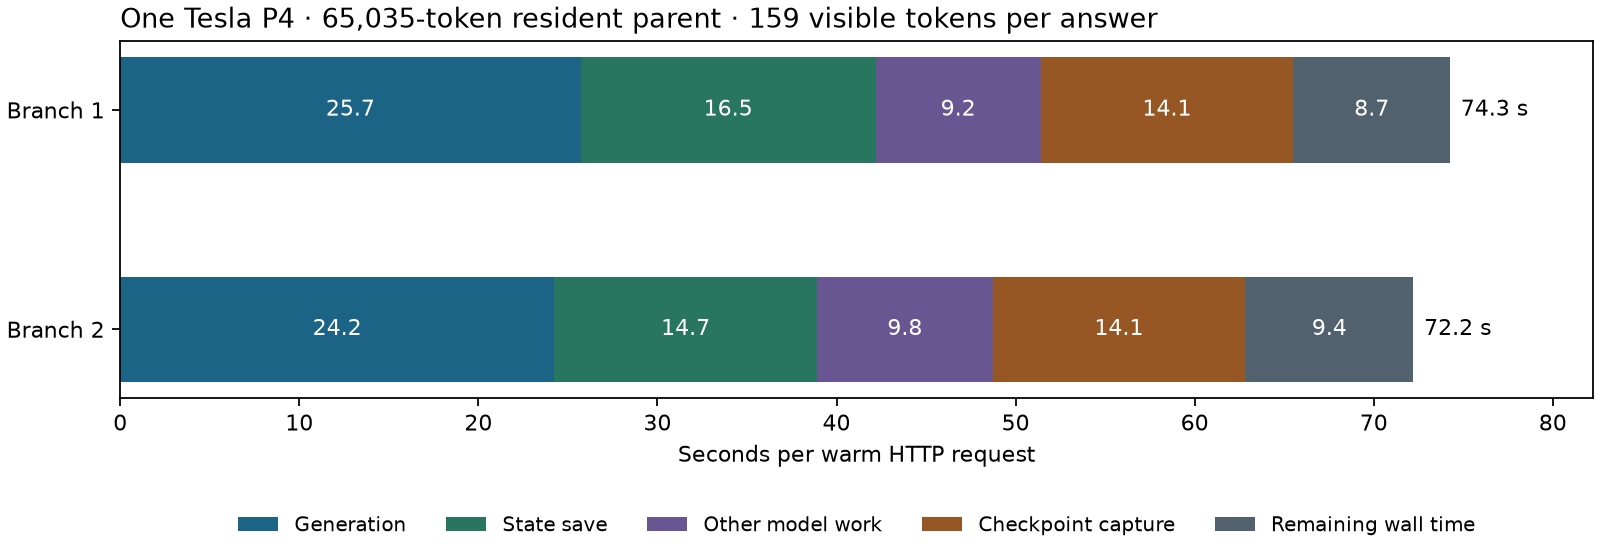
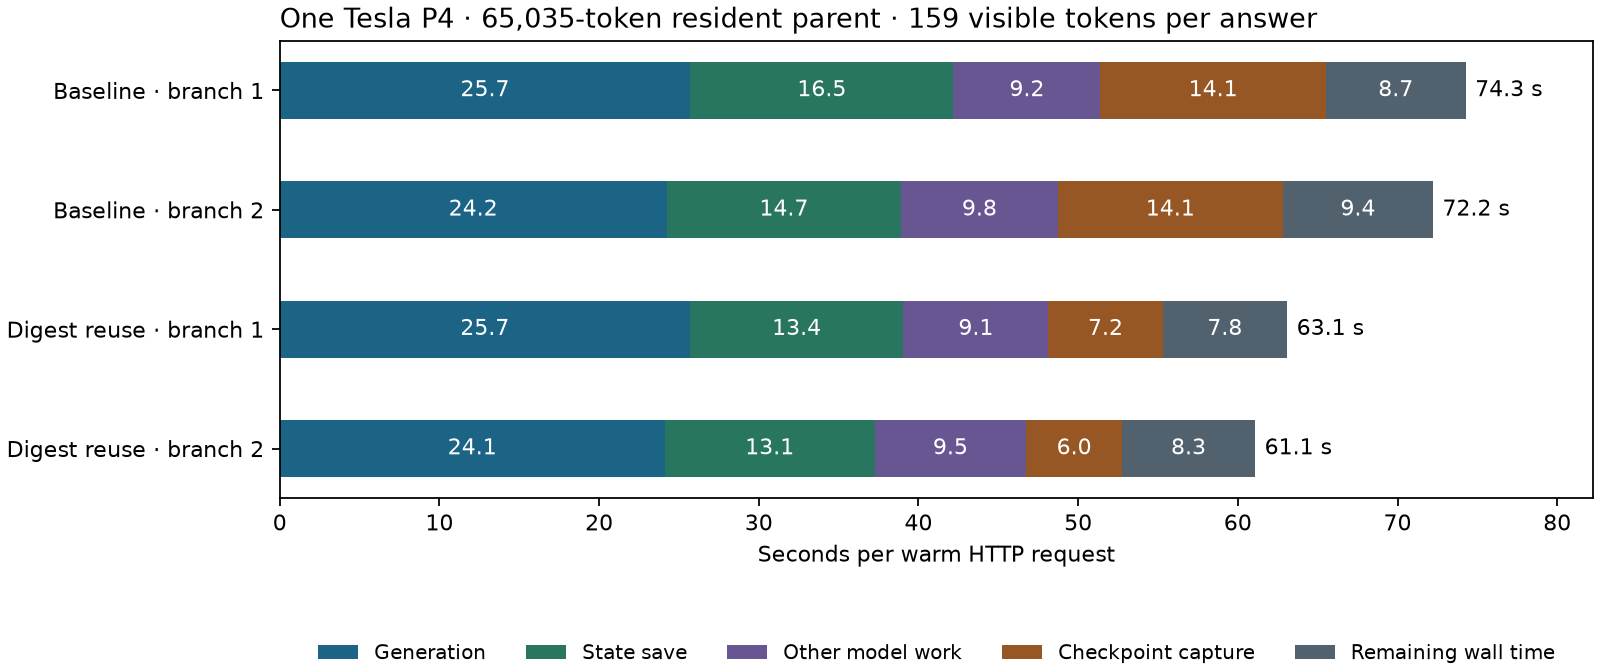
Compare checkpoint digest reuse across two warm 65K P4 branches

diff --git a/docs/benchmarks/inkling/plot_p4_state_save.py b/docs/benchmarks/inkling/plot_p4_state_save.py
@@ -1,14 +1,19 @@
-"""Render warm-request timings for the instrumented SQ-10 P4 baseline."""
+"""Render warm-request timings for matched SQ-10 P4 checkpoint runs."""
 import csv
 from pathlib import Path
 
 import matplotlib.pyplot as plt
 
 folder = Path(__file__).resolve().parent
-with (folder / "p4-65k-state-save-http.csv").open() as stream:
-    rows = list(csv.DictReader(stream))
+rows = []
+for filename, method in [
+    ("p4-65k-state-save-http.csv", "Baseline"),
+    ("p4-65k-owner-reuse-http.csv", "Digest reuse"),
+]:
+    with (folder / filename).open() as stream:
+        rows.extend(dict(row, method=method) for row in csv.DictReader(stream))
 
-fig, ax = plt.subplots(figsize=(10, 3.4), layout="constrained")
+fig, ax = plt.subplots(figsize=(10, 4.2), layout="constrained")
 stages = [
     ("generation_s", "Generation", "#1b6486"),
     ("state_save_s", "State save", "#297660"),
@@ -25,7 +30,7 @@ for i, row in enumerate(rows):
         ax.text(elapsed + duration / 2, i, f"{duration:.1f}", ha="center", va="center", color="white")
         elapsed += duration
     ax.text(wall + .6, i, f"{wall:.1f} s", va="center")
-ax.set_yticks(range(len(rows)), [f"Branch {r['trial']}" for r in rows])
+ax.set_yticks(range(len(rows)), [f"{r['method']} · branch {r['trial']}" for r in rows])
 ax.invert_yaxis()
 ax.set_xlim(0, max(float(r["wall_s"]) for r in rows) + 8)
 ax.set_xlabel("Seconds per warm HTTP request")
